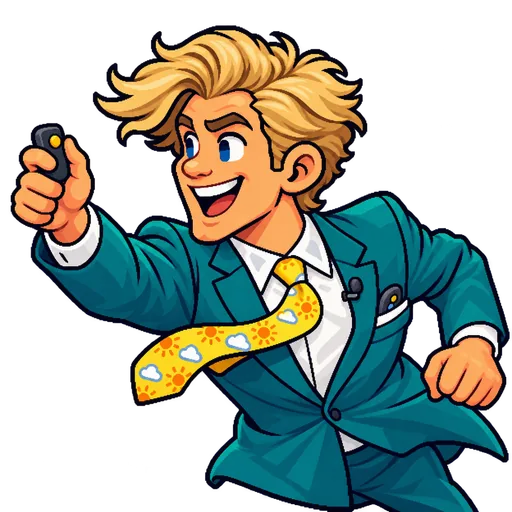
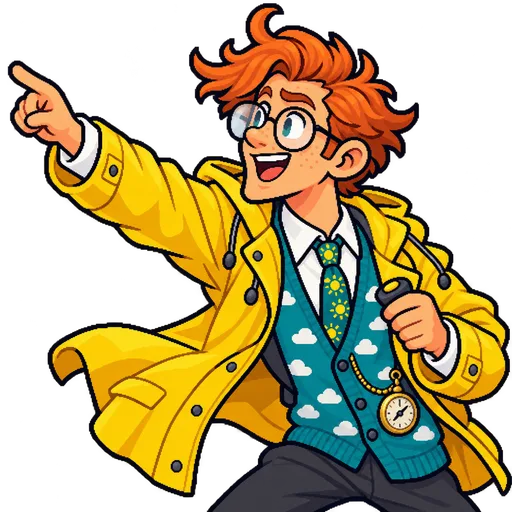
Broken News: Dusty's redesign is in (brief 11 A)
Seven new desk pictures, four lip-flap twins (mouth area pasted onto the
new originals), the new body sheet (sliced cleanly; the old sheet's six
manifest cuts removed) and four heads, all switched together. The old
look's spare desk-dusty-neutral-front.png is gone. Brief statuses and the
cast bible updated.

Claude-Session: https://claude.ai/code/session_01RQJXJkKg85jakcNbxHcPnf

diff --git a/career-crash/art/news/11-NEW_CAST.md b/career-crash/art/news/11-NEW_CAST.md
@@ -1,13 +1,11 @@
 # Broken News 11: the new cast, ready-to-paste (Dusty's redesign, Hamish, Bev, Jeff's drops, two locations)
 
-> **Status (10 October 2026):** B, C, D and E delivered and in the game:
-> Hamish (drawn short, so his stand-in scaling is off) and Bev with their
-> field pictures, twins, brawl bodies (`npc.news-hamish`, `npc.news-bev`) and
-> heads; Jeff's five drops; the Wellington, Wellington Toaster Festival and
-> launch-party plates (*Toaster Festival* and *The Launch* now use them).
-> **Waiting: Dusty's part 1** (A1, the seven new desk pictures). His part 2
-> (twins, body sheet, heads) arrived twice and is held back until part 1
-> comes, so his desk, twins and brawl look all change together.
+> **Status (10 October 2026):** delivered and in the game, all five parts:
+> Dusty redesigned (desk pictures, twins, brawl body `npc.news-dusty` and
+> heads, all switched together; the old sheet's manifest cuts were dropped,
+> the new one slices cleanly), Hamish (drawn short, so his stand-in scaling
+> is off) and Bev with field pictures, twins, brawl bodies and heads, Jeff's
+> five drops, and the Wellington, Toaster Festival and launch-party plates.
 
 > Part of the Broken News art set (`art/news/README.md`).
 > **Sending them back:** zips under 30 MB each, about 12 pictures per zip.

diff --git a/docs/career-crash/11-broken-news-cast.md b/docs/career-crash/11-broken-news-cast.md
@@ -237,13 +237,12 @@ personally.*
 - **Why we love him:** he has a PhD and genuine joy. Philippa is the only one
   who listens to his isobars, and the two of them nerding out is the show's
   sweetest scene.
-- **Redesign (his art needs work):** today he reads as a blond handsome man
-  in a suit, too close to Brock and to Wes. Give him his own silhouette:
-  **tall, lanky, a little stooped**, big round glasses that fog up, freckles,
-  a **too-big yellow rain mac over a teal cardigan with a cloud pattern**, a
-  pocket barometer on a chain, and **weathervane hair**: a red-ginger cowlick
-  that always points the way the wind is blowing (indoors too). Keep his
-  colours (teal and yellow) and his name.
+- **Look (redesigned, brief 11 A):** his own silhouette, so he no longer
+  reads as another Brock or Wes: **tall, lanky, a little stooped**, big
+  round glasses that fog up, freckles, a **too-big yellow rain mac over a
+  teal cardigan with a cloud pattern**, a pocket barometer on a chain, and
+  **weathervane hair**: a red-ginger cowlick that always points the way the
+  wind is blowing (indoors too).
 
 > *"That's not a cloud, Brock. That's Gerald. And Gerald is upset."*
 

diff --git a/career-crash/art/news/README.md b/career-crash/art/news/README.md
@@ -1,10 +1,9 @@
 # Broken News: art briefs for the image agent
 
-> **Status (10 October 2026):** briefs 01–03 and 05–09 are in the game, most
-> of 10 (Tamsin, Ainsley, Kevin, and the retired Coach Biff) and most of 11
-> (Hamish, Bev, Jeff's drops, the new locations). Open: Brody (10) and
-> Dusty's redesign part 1 (11 A1; part 2 is held until it arrives). Who
-> everyone is: the cast bible, `docs/career-crash/11-broken-news-cast.md`.
+> **Status (10 October 2026):** briefs 01–09 and 11 are in the game, and
+> most of 10 (Tamsin, Ainsley, Kevin, and the retired Coach Biff). Open:
+> Brody (10). Who everyone is: the cast bible,
+> `docs/career-crash/11-broken-news-cast.md`.
 
 Art for **careercrash.org/news** (design: `docs/career-crash/10-broken-news.md`):
 a cable-news studio where two anchors read the week's story, bicker, and

diff --git a/docs/career-crash/10-broken-news.md b/docs/career-crash/10-broken-news.md
@@ -426,7 +426,7 @@ before the first hit lands, so it changes with the sim like any other fight.
 - The brawl is a close-up (`BattleRenderer.closeUp`, up to 3.4×): framed on the anchors,
   cut straight to the framing, bottom strip kept clear.
 
-**Not yet:** a real episode and minigame, Brody's art (brief 10), Dusty's redesign (brief 11, part 1 still to come), lazy-loading minigames, per-anchor
+**Not yet:** a real episode and minigame, Brody's art (brief 10), lazy-loading minigames, per-anchor
 voices beyond pitch and type, links from the rest of the site, sitemap and
 share image (the page is `noindex` until launch).
 

diff --git a/career-crash/art/news/04-GUESTS.md b/career-crash/art/news/04-GUESTS.md
@@ -4,7 +4,8 @@
 > the game (a seventh, presenting while facing the camera, is kept as
 > `desk-dusty-neutral-front.png`). His body sheet
 > (`npc.news-dusty`, six manifest cuts) and four fight heads are in too, so
-> Dusty is complete (his mouth twins are in brief 09). The other guests are
+> Dusty is complete. He has since been redesigned (brief 11 A: tall, lanky,
+> yellow rain mac, weathervane hair); the pictures above are the new look. The other guests are
 > now ready-to-paste prompts in brief 10.
 
 > Part of the Broken News art set (`art/news/README.md`). Design:
